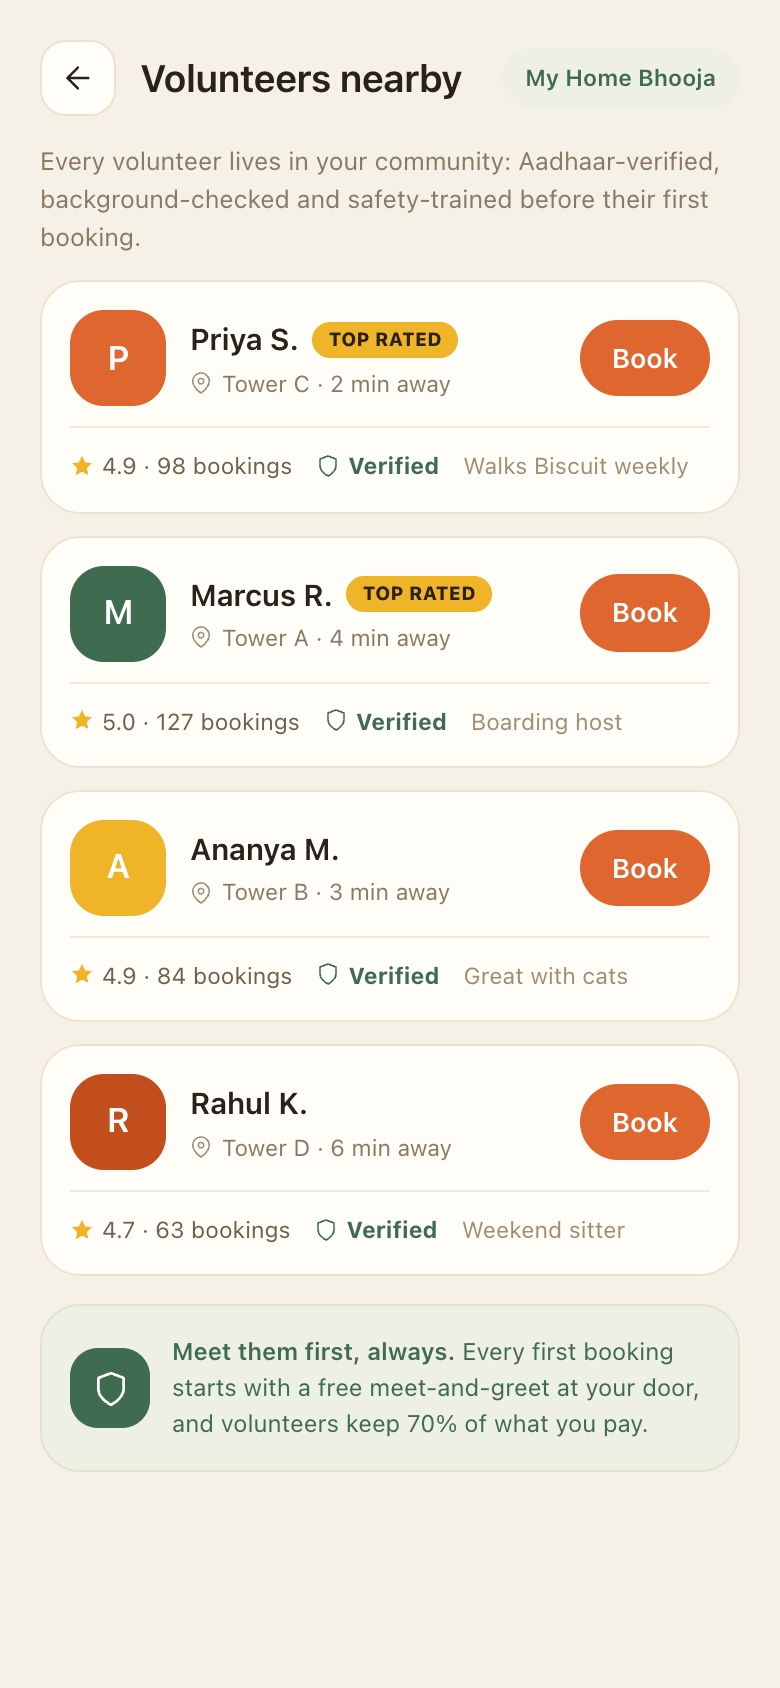
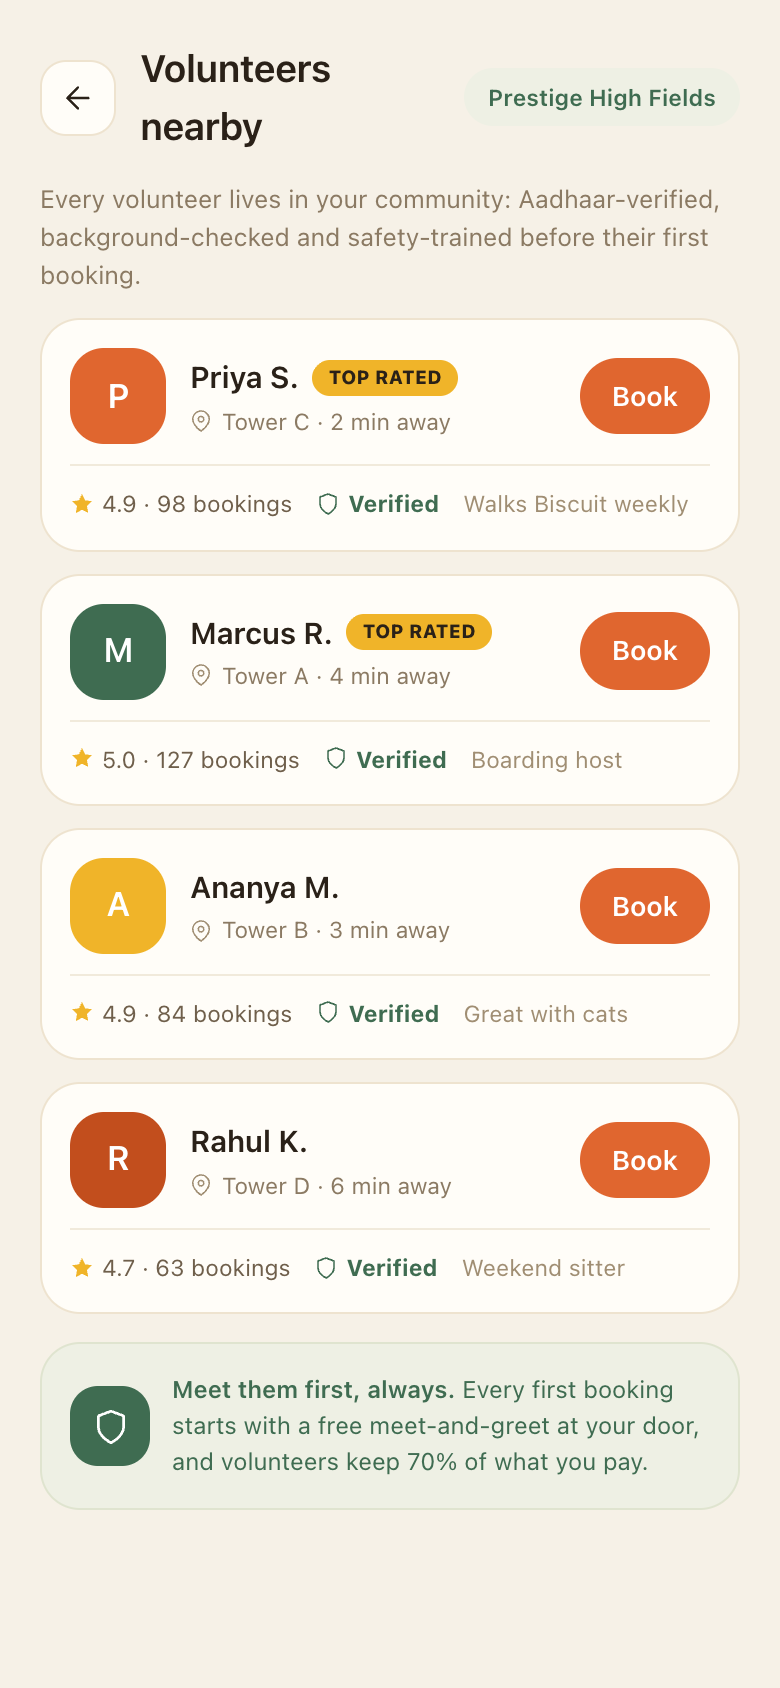
Add Community screen with demo towers, pets and testimonials
- New Community screen set in Prestige High Fields: pets listed by
  tower (Chai, Donut, Lily, Lolio) with what each is looking for and
  one-tap raise-a-request; note that smart auto-assign is on the way
- Demo neighbour testimonials (sample data, in-app only) with photos
- Demo community renamed to Prestige High Fields across app screens
- Tour: tenth section for the community screen, labelled sample data
- About: Hyderabad-first roadmap paragraph (city, metros, then global
  where permitted)

Changed region(s): [[0.0615, 0.0308, 0.9231, 0.8934], [0.6462, 0.0308, 0.9231, 0.0616], [0.0615, 0.0308, 0.1231, 0.0616]]

diff --git a/src/mobile/screens.tsx b/src/mobile/screens.tsx
@@ -24,6 +24,12 @@ const IMG = {
   boarding: 'https://images.unsplash.com/photo-1583511655857-d19b40a7a54e?w=500&q=80&auto=format&fit=crop',
   sitting: 'https://images.unsplash.com/photo-1495360010541-f48722b34f7d?w=500&q=80&auto=format&fit=crop',
   walking: 'https://images.unsplash.com/photo-1558788353-f76d92427f16?w=500&q=80&auto=format&fit=crop',
+  chai: 'https://images.unsplash.com/photo-1518288774672-b94e808873ff?w=300&h=300&q=75&auto=format&fit=crop&crop=faces',
+  lily: 'https://images.unsplash.com/photo-1596854407944-bf87f6fdd49e?w=300&h=300&q=75&auto=format&fit=crop&crop=faces',
+  lolio: 'https://images.unsplash.com/photo-1530281700549-e82e7bf110d6?w=300&h=300&q=75&auto=format&fit=crop&crop=faces',
+  donut: 'https://images.unsplash.com/photo-1583337130417-3346a1be7dee?w=300&h=300&q=75&auto=format&fit=crop&crop=faces',
+  rhea: 'https://images.unsplash.com/photo-1494790108377-be9c29b29330?w=200&h=200&q=75&auto=format&fit=crop&crop=faces',
+  arjun: 'https://images.unsplash.com/photo-1507003211169-0a1dd7228f2d?w=200&h=200&q=75&auto=format&fit=crop&crop=faces',
 };
 
 /* ------------------------------ icons ------------------------------ */
@@ -127,7 +133,7 @@ function Home() {
         <div style={{ display: 'flex', alignItems: 'center', justifyContent: 'space-between', marginBottom: 18 }}>
           <div>
             <div style={{ fontSize: 13, color: C.muted }}>Good morning</div>
-            <div style={{ fontFamily: F, fontWeight: 600, fontSize: 22 }}>Ananya · My Home Bhooja</div>
+            <div style={{ fontFamily: F, fontWeight: 600, fontSize: 22 }}>Ananya · Prestige High Fields</div>
           </div>
           <span style={{ width: 42, height: 42, borderRadius: 15, background: C.card, border: `1px solid ${C.border}`, display: 'grid', placeItems: 'center', position: 'relative' }}>
             <Ic d={paths.bell} size={19} />
@@ -359,7 +365,7 @@ function Walkers() {
   const colors = [C.orange, C.green, C.gold, C.orangeDark];
   return (
     <Phone>
-      <Header title="Volunteers nearby" right={<span style={{ fontFamily: F, fontWeight: 600, fontSize: 11.5, background: C.greenPale, color: C.green, borderRadius: 99, padding: '6px 12px' }}>My Home Bhooja</span>} />
+      <Header title="Volunteers nearby" right={<span style={{ fontFamily: F, fontWeight: 600, fontSize: 11.5, background: C.greenPale, color: C.green, borderRadius: 99, padding: '6px 12px' }}>Prestige High Fields</span>} />
       <div style={{ padding: '0 20px 20px', overflow: 'hidden' }}>
         <div style={{ fontSize: 12.5, color: C.muted, marginBottom: 12, lineHeight: 1.5 }}>
           Every volunteer lives in your community: Aadhaar-verified, background-checked and safety-trained before their first booking.
@@ -671,6 +677,70 @@ function Switch() {
   );
 }
 
+/* ------------------------------ 10. COMMUNITY ------------------------------ */
+
+function Community() {
+  const pets = [
+    { n: 'Chai', img: IMG.chai, breed: 'Persian cat', tower: 'Tower 2', need: 'Feeding + play, weekday evenings' },
+    { n: 'Donut', img: IMG.donut, breed: 'French bulldog', tower: 'Tower 5', need: 'Evening walks + weekend boarding' },
+    { n: 'Lily', img: IMG.lily, breed: 'Tabby cat', tower: 'Tower 5', need: 'Litter + cuddles when parents travel' },
+    { n: 'Lolio', img: IMG.lolio, breed: 'Retriever', tower: 'Tower 7', need: 'Morning walks, 30 min' },
+  ];
+  return (
+    <Phone nav="community">
+      <div style={{ padding: '22px 20px 96px', overflow: 'hidden' }}>
+        <div style={{ display: 'flex', alignItems: 'center', justifyContent: 'space-between', marginBottom: 4 }}>
+          <div style={{ fontFamily: F, fontWeight: 600, fontSize: 22 }}>Your community</div>
+          <span style={{ fontFamily: F, fontWeight: 600, fontSize: 11.5, background: C.greenPale, color: C.green, borderRadius: 99, padding: '6px 12px' }}>Prestige High Fields</span>
+        </div>
+        <div style={{ fontSize: 12, color: C.muted, marginBottom: 12 }}>Every pet in your towers, and what they are looking for.</div>
+
+        <div style={{ display: 'flex', flexDirection: 'column', gap: 9, marginBottom: 14 }}>
+          {pets.map((pt) => (
+            <div key={pt.n} style={{ ...card, padding: 11, display: 'flex', alignItems: 'center', gap: 11 }}>
+              <img src={pt.img} alt={pt.n} style={{ width: 46, height: 46, borderRadius: 16, objectFit: 'cover' }} />
+              <div style={{ flex: 1, minWidth: 0 }}>
+                <div style={{ display: 'flex', alignItems: 'center', gap: 7 }}>
+                  <span style={{ fontFamily: F, fontWeight: 600, fontSize: 14 }}>{pt.n}</span>
+                  <span style={{ fontSize: 10.5, fontWeight: 800, background: C.peach, color: C.orangeDark, borderRadius: 99, padding: '2px 9px' }}>{pt.tower}</span>
+                </div>
+                <div style={{ fontSize: 11, color: C.muted }}>{pt.breed} &middot; {pt.need}</div>
+              </div>
+              <span style={{ fontFamily: F, fontWeight: 600, fontSize: 11.5, background: C.orange, color: '#fff', borderRadius: 99, padding: '8px 13px', flexShrink: 0 }}>Raise a request</span>
+            </div>
+          ))}
+        </div>
+
+        <div style={{ fontSize: 10.5, color: C.muted2, textAlign: 'center', marginBottom: 14 }}>
+          Requests reach our team instantly. Smart volunteer auto-assign is on the way.
+        </div>
+
+        <div style={{ fontFamily: F, fontWeight: 600, fontSize: 15.5, marginBottom: 10 }}>What neighbours say</div>
+        <div style={{ display: 'flex', flexDirection: 'column', gap: 9 }}>
+          {[
+            { n: 'Rhea M.', t: 'Tower 5', img: IMG.rhea, q: 'Donut waits at the door for his walker now. I get photos before I even think to ask.' },
+            { n: 'Arjun T.', t: 'Tower 2', img: IMG.arjun, q: 'Ten days away: Chai was fed, brushed and entertained at home, and stayed calm.' },
+          ].map((r) => (
+            <div key={r.n} style={{ ...card, padding: 12 }}>
+              <div style={{ display: 'flex', alignItems: 'center', gap: 9, marginBottom: 7 }}>
+                <img src={r.img} alt={r.n} style={{ width: 32, height: 32, borderRadius: 99, objectFit: 'cover' }} />
+                <div style={{ flex: 1 }}>
+                  <span style={{ fontFamily: F, fontWeight: 600, fontSize: 13 }}>{r.n}</span>
+                  <span style={{ fontSize: 11, color: C.muted2 }}> &middot; {r.t}</span>
+                </div>
+                <span style={{ display: 'inline-flex', gap: 2 }}>
+                  {[0, 1, 2, 3, 4].map((i) => <Ic key={i} d={paths.star} size={11} color={C.gold} fill={C.gold} />)}
+                </span>
+              </div>
+              <div style={{ fontSize: 12.5, color: C.sub, lineHeight: 1.55 }}>&ldquo;{r.q}&rdquo;</div>
+            </div>
+          ))}
+        </div>
+      </div>
+    </Phone>
+  );
+}
+
 /* ------------------------------ 8. BOOKINGS ------------------------------ */
 
 function Bookings() {
@@ -734,4 +804,5 @@ export const MOBILE_SCREENS: Record<string, () => ReactNode> = {
   payment: Payment,
   track: Track,
   switch: Switch,
+  community: Community,
 };

diff --git a/src/app/components/AboutUsPage.tsx b/src/app/components/AboutUsPage.tsx
@@ -689,6 +689,14 @@ export default function AboutUsPage({ onHomeClick, onJoin, onBlogClick, onTourCl
                 trusted carer instead of a stranger.
               </p>
               <p style={{ fontSize: 16, lineHeight: 1.75, color: C.sub, maxWidth: 720, margin: '0 0 22px', fontWeight: 400 }}>
+                Built out of Hyderabad, for Hyderabad first: operating here is our home advantage.
+                The roadmap is bigger, though. Next come more communities across the city, then
+                India's other big metros, and in time, wherever in the world busy pet parents need
+                a trusted neighbour, in the countries where we are permitted to operate. We will do
+                that research when the time is right: one community done properly beats ten done
+                loosely.
+              </p>
+              <p style={{ fontSize: 16, lineHeight: 1.75, color: C.sub, maxWidth: 720, margin: '0 0 22px', fontWeight: 400 }}>
                 If this idea resonates with you, as a pet parent, a volunteer, or someone who wants
                 to help build it, I would love to hear from you and build this further together.
               </p>

diff --git a/src/app/components/TourPage.tsx b/src/app/components/TourPage.tsx
@@ -183,6 +183,21 @@ const SECTIONS: Section[] = [
     shot: '/shots/m-switch.png',
     alt: 'Request a change screen with reasons, replacement steps and raise ticket button',
   },
+  {
+    id: 'community',
+    eyebrow: 'EVERY TOWER, EVERY PET',
+    Icon: ShieldCheck,
+    accent: '#e0662f',
+    title: 'Your community, tower by tower.',
+    body: 'Pick your community and see the pets who live around you, which tower they are in, and the care they are looking for. Raise a request in one tap and it reaches our team instantly, with smart volunteer auto-assignment on the roadmap. Screens shown with sample data from our demo community.',
+    points: [
+      'Every pet listed with their tower and their needs',
+      'One-tap requests that reach our team instantly',
+      'Neighbour reviews build trust where you live',
+    ],
+    shot: '/shots/m-community.png',
+    alt: 'Community screen listing pets by tower with requests and neighbour reviews',
+  },
 ];
 
 /** Fade-and-rise on scroll, once, honouring reduced-motion. */
